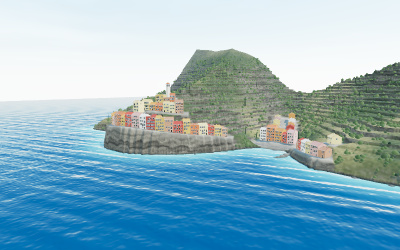
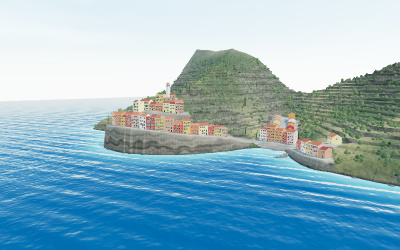
VillageGenerator: Tiled roofs everywhere, brick stacks, walkable paths.
The roof slopes were baked with the wall part code, so they wore the
house's plaster instead of their tiles — every slope now carries the
barrel-tile shading. Ridge caps, verges and chimneys become BRICK:
solid fired clay coursed on its vertical faces, so nothing stretches
with the piece it dresses. Cliff seams follow the bedding instead of
wandering, close-range grit tightens fourfold across terrain, scrub
and stonework, and paved lanes now run every row front, with ramps
joining the tiers and both clusters down to the quay.

diff --git a/examples/jsm/generators/village/HouseGenerator.js b/examples/jsm/generators/village/HouseGenerator.js
@@ -17,7 +17,7 @@ import {
 } from 'three';
 
 import { MeshStandardNodeMaterial } from 'three/webgpu';
-import { attribute, color, float, floor, Fn, fract, fwidth, hash as ihash, mix, positionLocal, positionView, positionWorld, normalView, select, smoothstep, step, uint, uv, varying, vec3 } from 'three/tsl';
+import { attribute, color, float, floor, Fn, fract, fwidth, hash as ihash, mix, normalWorldGeometry, positionLocal, positionView, positionWorld, normalView, select, smoothstep, step, uint, uv, varying, vec3 } from 'three/tsl';
 
 const _scale = /*@__PURE__*/ new Vector3();
 const _position = /*@__PURE__*/ new Vector3();
@@ -26,9 +26,11 @@ const _normalMatrix = /*@__PURE__*/ new Matrix3();
 const _identity = /*@__PURE__*/ new Matrix4();
 
 // material-zone codes baked per vertex into the merged geometry, so one material can
-// branch on partId and shade every zone
-const PartId = { WALL: 0, TRIM: 1, SHUTTER: 2, ROOF: 3, GLASS: 4, DOOR: 5, STONE: 6, RAIL: 7, TERRACE: 8 };
-const { WALL, TRIM, SHUTTER, ROOF, GLASS, DOOR, STONE, RAIL, TERRACE } = PartId;
+// branch on partId and shade every zone. BRICK is the solid fired clay of ridge
+// caps, verge tiles and chimney stacks — tile-toned, but without the slope's
+// barrel pattern, which would stretch with each box's size.
+const PartId = { WALL: 0, TRIM: 1, SHUTTER: 2, ROOF: 3, GLASS: 4, DOOR: 5, STONE: 6, RAIL: 7, TERRACE: 8, BRICK: 9 };
+const { WALL, TRIM, SHUTTER, ROOF, GLASS, DOOR, STONE, RAIL, TERRACE, BRICK } = PartId;
 
 // the flat painted band around every opening; the sills, cornices and fascias key
 // off it so all the facade trim reads as one consistent painted system
@@ -272,14 +274,14 @@ class HouseGenerator {
 		// one accumulator per kind of part: extruded walls in house space, plus
 		// instance matrices for every repeated box / plane module
 
-		const extras = []; // extruded walls and gables, already in house-local space
+		const extras = []; // extruded walls and roof slopes ( { geometry, partId } ), already in house-local space
 		const trim = []; // surrounds, sills, cornices, fascias, chimney caps ( unit boxes )
 		const shutters = [];
 		const rails = [];
 		const stone = []; // podium and door steps
-		const roofBoxes = []; // ridge capping and verge tiles
+		const brick = []; // ridge capping, verge tiles and chimney stacks — solid fired clay
 		const terraceBoxes = []; // flat cotto terrace floors
-		const wallBoxes = []; // chimney stacks and parapets
+		const wallBoxes = []; // parapets
 		const glass = []; // window panes ( unit planes )
 		const doors = [];
 
@@ -306,10 +308,10 @@ class HouseGenerator {
 		// the roof: tiled slopes with overhanging eaves over the gabled span, a
 		// walkable terrace behind a parapet over the rest
 
-		if ( gableSpan ) buildRoof( extras, trim, roofBoxes, w, d, eaves, ridge, p, gableSpan );
+		if ( gableSpan ) buildRoof( extras, trim, brick, w, d, eaves, ridge, p, gableSpan );
 		if ( terraceSpan ) buildTerrace( wallBoxes, trim, rails, terraceBoxes, w, d, eaves, terraceSpan, p.roofStyle === 'combo' );
 
-		// chimneys: short plastered stacks with a cap slab, straddling the ridge
+		// chimneys: short brick stacks with a cap slab, straddling the ridge
 
 		const chimneys = gableSpan && gableSpan[ 1 ] - gableSpan[ 0 ] > 2.4 ? Math.floor( random() * 2.4 ) : 0; // 0..2, most houses have at least one
 
@@ -320,7 +322,7 @@ class HouseGenerator {
 			const top = ridge + 0.4 + random() * 0.5;
 			const size = 0.4 + random() * 0.15;
 
-			wallBoxes.push( boxMatrix( cx, ( top + ridge - 0.8 ) / 2, cz, size, top - ridge + 0.8, size ) );
+			brick.push( boxMatrix( cx, ( top + ridge - 0.8 ) / 2, cz, size, top - ridge + 0.8, size ) );
 			trim.push( boxMatrix( cx, top + 0.04, cz, size + 0.14, 0.08, size + 0.14 ) );
 
 		}
@@ -342,12 +344,12 @@ class HouseGenerator {
 
 		const groups = [];
 
-		for ( const geometry of extras ) groups.push( { geometry: nonIndexed( geometry ), matrices: [ _identity ], partId: WALL, rigid: true } );
+		for ( const extra of extras ) groups.push( { geometry: nonIndexed( extra.geometry ), matrices: [ _identity ], partId: extra.partId, rigid: true } );
 
 		if ( trim.length > 0 ) groups.push( { geometry: _unitBox, matrices: trim, partId: TRIM } );
 		if ( shutters.length > 0 ) groups.push( { geometry: _unitBox, matrices: shutters, partId: SHUTTER } );
 		if ( wallBoxes.length > 0 ) groups.push( { geometry: _unitBox, matrices: wallBoxes, partId: WALL } );
-		if ( roofBoxes.length > 0 ) groups.push( { geometry: _unitBox, matrices: roofBoxes, partId: ROOF } );
+		if ( brick.length > 0 ) groups.push( { geometry: _unitBox, matrices: brick, partId: BRICK } );
 		if ( terraceBoxes.length > 0 ) groups.push( { geometry: _unitBox, matrices: terraceBoxes, partId: TERRACE } );
 		if ( rails.length > 0 ) groups.push( { geometry: _unitBox, matrices: rails, partId: RAIL } );
 		if ( stone.length > 0 ) groups.push( { geometry: _unitBox, matrices: stone, partId: STONE } );
@@ -499,7 +501,7 @@ function buildFacade( extras, modules, w, d, t, eaves, p, random, rotationY, wit
 	const wall = new ExtrudeGeometry( shape, { depth: t, bevelEnabled: false } );
 	wall.translate( 0, 0, d / 2 - t );
 	if ( rotationY !== 0 ) wall.rotateY( rotationY );
-	extras.push( wall );
+	extras.push( { geometry: wall, partId: WALL } );
 
 	// dress every opening; module positions rotate with the facade
 
@@ -560,7 +562,7 @@ function buildGableWall( extras, modules, w, d, t, eaves, ridge, p, random, side
 	const wall = new ExtrudeGeometry( shape, { depth: t, bevelEnabled: false } );
 	wall.translate( 0, 0, w / 2 - t - 0.02 );
 	wall.rotateY( rotationY );
-	extras.push( wall );
+	extras.push( { geometry: wall, partId: WALL } );
 
 	for ( const o of openings ) {
 
@@ -687,7 +689,7 @@ function planeMatrix( x, y, z, sizeX, sizeY ) {
 // eaves, verge tiles, a ridge cap, fascia boards and a cornice line on each
 // facade — and, where the span stops short of the house end, a gable-end wall
 // closing the roof against the terrace
-function buildRoof( extras, trim, roofBoxes, w, d, eaves, ridge, p, span ) {
+function buildRoof( extras, trim, brick, w, d, eaves, ridge, p, span ) {
 
 	const [ x0, x1 ] = span;
 
@@ -717,7 +719,7 @@ function buildRoof( extras, trim, roofBoxes, w, d, eaves, ridge, p, span ) {
 		slope.translate( 0, ( ridgeY + eaveY ) / 2, run / 2 );
 		if ( side < 0 ) slope.rotateY( Math.PI );
 		slope.translate( cx, 0, 0 );
-		extras.push( slope );
+		extras.push( { geometry: slope, partId: ROOF } );
 
 		// verge tiles along the gable edges, so the thin slope plane reads as a
 		// roof with body from street level rather than vanishing edge-on
@@ -725,7 +727,7 @@ function buildRoof( extras, trim, roofBoxes, w, d, eaves, ridge, p, span ) {
 
 		for ( const sx of [ - 1, 1 ] ) {
 
-			roofBoxes.push( new Matrix4()
+			brick.push( new Matrix4()
 				.makeRotationX( lean )
 				.scale( _scale.set( 0.14, 0.12, slopeLength - 0.02 ) )
 				.setPosition( _position.set( cx + sx * ( width / 2 - 0.06 ), ( ridgeY + eaveY ) / 2 + 0.02, side * run / 2 ) ) );
@@ -740,7 +742,7 @@ function buildRoof( extras, trim, roofBoxes, w, d, eaves, ridge, p, span ) {
 
 	}
 
-	roofBoxes.push( boxMatrix( cx, ridgeY + 0.03, 0, width, 0.1, 0.34 ) );
+	brick.push( boxMatrix( cx, ridgeY + 0.03, 0, width, 0.1, 0.34 ) );
 
 	// the interior gable end: a triangle standing on the wall head, closing the
 	// slopes where they stop over the terrace; tucked just inside the gabled span
@@ -758,7 +760,7 @@ function buildRoof( extras, trim, roofBoxes, w, d, eaves, ridge, p, span ) {
 		const wall = new ExtrudeGeometry( shape, { depth: 0.22, bevelEnabled: false } );
 		wall.translate( 0, 0, x + inset );
 		wall.rotateY( Math.PI / 2 );
-		extras.push( wall );
+		extras.push( { geometry: wall, partId: WALL } );
 
 	}
 
@@ -988,6 +990,15 @@ function createHouseMaterial() {
 		.mul( barrelJoint.mul( 0.26 ).oneMinus() )
 		.mul( float( 1 ).add( tone ) );
 
+	// ridge caps, verge tiles and chimney stacks: solid fired clay in the roof's
+	// family — coursed like stacked brick on their vertical faces, plain on top,
+	// so nothing stretches with the size of the piece it dresses
+	const brickCourse = gridLine( positionWorld.y, 0.075, 0.007 ).mul( smoothstep( 0.55, 0.25, normalWorldGeometry.y.abs() ) );
+	const brickColor = roofBase
+		.mul( valueNoise( positionWorld.mul( 3.2 ) ).mul( 0.12 ).add( 1 ) )
+		.mul( brickCourse.mul( 0.24 ).oneMinus() )
+		.mul( float( 1 ).add( tone ) );
+
 	// terrace floors: square cotto tiles laid in house-local metres — always the
 	// fired orange of the kiln, whatever colour the walls below are washed
 	const cottoJoint = gridLine( positionLocal.x, 0.34, 0.014 ).max( gridLine( positionLocal.z, 0.34, 0.014 ) );
@@ -1011,6 +1022,7 @@ function createHouseMaterial() {
 	const block = valueNoise( vec3( positionWorld.x.mul( 1.3 ), positionWorld.y.mul( 2.6 ), positionWorld.z.mul( 1.3 ) ) ).mul( 0.5 ).add( 0.5 );
 	let stoneColor = mix( color( 0x776f5f ), color( 0x958b76 ), block );
 	stoneColor = stoneColor.mul( valueNoise( positionWorld.mul( 0.35 ) ).mul( 0.14 ).add( 0.93 ) );
+	stoneColor = stoneColor.mul( valueNoise( positionWorld.mul( 5.5 ) ).mul( 0.1 ).mul( smoothstep( 0.06, 0.015, texel ) ).add( 1 ) ); // close-range grit, faded before it can sparkle
 	stoneColor = mix( stoneColor, color( 0x4c5348 ), smoothstep( 1.6, 0.5, positionWorld.y ).mul( 0.5 ) ); // algae and tide-wash above the sea
 	stoneColor = mix( stoneColor, color( 0x3d4640 ), smoothstep( 0.7, 0.1, positionWorld.y ).mul( 0.5 ) );
 
@@ -1028,27 +1040,30 @@ function createHouseMaterial() {
 	const isStone = partId.equal( STONE );
 	const isRail = partId.equal( RAIL );
 	const isTerrace = partId.equal( TERRACE );
+	const isBrick = partId.equal( BRICK );
 
 	const material = new MeshStandardNodeMaterial();
 
 	material.colorNode = select( isTrim, trimColor,
 		select( isShutter, shutterShade,
 			select( isRoof, roofColor,
-				select( isTerrace, cottoColor,
-					select( isGlass, glassColor,
-						select( isDoor, doorColor,
-							select( isStone, stoneColor,
-								select( isRail, railColor, plaster ) ) ) ) ) ) ) );
+				select( isBrick, brickColor,
+					select( isTerrace, cottoColor,
+						select( isGlass, glassColor,
+							select( isDoor, doorColor,
+								select( isStone, stoneColor,
+									select( isRail, railColor, plaster ) ) ) ) ) ) ) ) );
 
 	material.roughnessNode = select( isGlass, float( 0.14 ), select( isRail, float( 0.5 ), select( isTerrace, float( 0.85 ), float( 0.95 ) ) ) );
 	material.metalnessNode = select( isRail, float( 0.55 ), float( 0 ) );
 
 	// relief: barrel-tile ridges on the roofs, recessed joints on the terrace
-	// cotto, a soft plaster / stone grain elsewhere; glass and trim stay smooth
+	// cotto and brick coursing, a soft plaster / stone grain elsewhere; glass
+	// and trim stay smooth
 	const grain = valueNoise( positionWorld.mul( 2.2 ) ).mul( select( isStone, float( 0.012 ), float( 0.004 ) ) );
 	const roofRelief = barrel.mul( 0.014 ).mul( barrelFade ).sub( courseJoint.mul( 0.018 ) );
 	const cottoRelief = cottoJoint.mul( - 0.006 );
-	material.normalNode = bumpNormal( select( isRoof, roofRelief, select( isTerrace, cottoRelief, select( isGlass.or( isTrim ), float( 0 ), grain ) ) ) );
+	material.normalNode = bumpNormal( select( isRoof, roofRelief, select( isTerrace, cottoRelief, select( isBrick, brickCourse.mul( - 0.008 ), select( isGlass.or( isTrim ), float( 0 ), grain ) ) ) ) );
 
 	return material;
 

diff --git a/examples/jsm/generators/VillageGenerator.js b/examples/jsm/generators/VillageGenerator.js
@@ -38,7 +38,8 @@ const _unitBox = /*@__PURE__*/ new BoxGeometry( 1, 1, 1 ).toNonIndexed();
  * to a seeded coast curve drives the cliff profile, a ravine drains to the
  * cove, and every house row stamps a flat terrace into the hill before the
  * grid is baked, so the houses' stone podiums read as the retaining walls of
- * their terraces.
+ * their terraces. Paved lanes run the front of every row and ramps join the
+ * tiers and the quay, so the whole village connects into one walkable network.
  *
  * ```js
  * const village = new VillageGenerator( { seed: 1 } );
@@ -492,6 +493,8 @@ function layoutRow( layout, random, path, options ) {
 
 	let s = margin;
 	let previous = null;
+	let sFirst = null;
+	let sLast = null;
 
 	const endRun = () => {
 
@@ -567,11 +570,54 @@ function layoutRow( layout, random, path, options ) {
 		} );
 
 		previous = house;
+		if ( sFirst === null ) sFirst = s;
+		sLast = s + width;
 		s += width;
 
 	}
 
 	endRun();
+
+	if ( sFirst === null ) return null;
+
+	// the lane: a paved walk running the whole row front at the smooth grade
+	// the house bases were quantized from, so every doorstep is reachable and
+	// the terrace steps between neighbours ramp instead of jumping
+
+	const lanePoint = ( ls ) => {
+
+		const at = path.sample( ls );
+		return { x: at.x + at.tz * facing * 2.9, z: at.z - at.tx * facing * 2.9, h: elevation( ls ) + 0.05 };
+
+	};
+
+	for ( let ls = Math.max( 0, sFirst - 2 ); ls <= Math.min( path.length, sLast + 2 ); ls += 2.5 ) {
+
+		const point = lanePoint( ls );
+		layout.stamps.push( { cx: point.x, cz: point.z, r: 2.7, feather: 4.5, h: point.h } );
+
+	}
+
+	// the lane's two ends, for the ramps that join rows into a walkable network
+	return { first: lanePoint( sFirst + 1 ), last: lanePoint( sLast - 1 ) };
+
+}
+
+// a paved ramp between two lane anchors: disc stamps marching the line with
+// linearly blended height, carving a walkable shelf into the hillside
+function layoutRamp( layout, a, b ) {
+
+	if ( ! a || ! b ) return;
+
+	const length = Math.hypot( b.x - a.x, b.z - a.z );
+	const count = Math.max( 2, Math.ceil( length / 2.2 ) );
+
+	for ( let i = 0; i <= count; i ++ ) {
+
+		const t = i / count;
+		layout.stamps.push( { cx: a.x + ( b.x - a.x ) * t, cz: a.z + ( b.z - a.z ) * t, r: 2.5, feather: 4.5, h: a.h + ( b.h - a.h ) * t } );
+
+	}
 
 }
 
@@ -611,12 +657,13 @@ function buildLayout( p, random, coast ) {
 	};
 
 	const westRows = 4 + Math.floor( random() * 2 );
+	const westEnds = []; // each row's cove-side lane end, for the tier ramps
 
 	for ( let k = 0; k < westRows; k ++ ) {
 
 		const path = offsetCoastPath( coast, - 122 + k * 12 + random() * 6, coveX - 24 - k * 7, 7.5 + k * 11 );
 
-		layoutRow( layout, random, path, {
+		const run = layoutRow( layout, random, path, {
 			elevation: grade( path ),
 			facing: - 1,
 			depth: 8.5 + random(),
@@ -624,23 +671,28 @@ function buildLayout( p, random, coast ) {
 			floorsMax: 4
 		} );
 
+		if ( run ) westEnds.push( run.last );
+
 	}
 
 	// the far side of the cove: a smaller, lower cluster
 
 	const eastRows = 2 + Math.floor( random() * 2 );
+	const eastEnds = [];
 
 	for ( let k = 0; k < eastRows; k ++ ) {
 
 		const path = offsetCoastPath( coast, coveX + 22 + k * 5, coveX + 64 - k * 4, 6.5 + k * 10.5 );
 
-		layoutRow( layout, random, path, {
+		const run = layoutRow( layout, random, path, {
 			elevation: grade( path ),
 			facing: - 1,
 			depth: 8 + random(),
 			floorsMin: 2,
 			floorsMax: 3
 		} );
+
+		if ( run ) eastEnds.push( run.first );
 
 	}
 
@@ -663,6 +715,16 @@ function buildLayout( p, random, coast ) {
 	} );
 
 	layout.harbour = { x: coveX, z: harbourZ };
+
+	// join everything into one walkable network: ramps climb between the tiers
+	// of each cluster, and both clusters step down to the quay, so dock, west
+	// hill and east hill all connect without a scramble over the scrub
+
+	for ( let k = 1; k < westEnds.length; k ++ ) layoutRamp( layout, westEnds[ k - 1 ], westEnds[ k ] );
+	for ( let k = 1; k < eastEnds.length; k ++ ) layoutRamp( layout, eastEnds[ k - 1 ], eastEnds[ k ] );
+
+	layoutRamp( layout, { x: coveX - 19, z: harbourZ + 6, h: 2.2 }, westEnds[ 0 ] );
+	layoutRamp( layout, { x: coveX + 19, z: harbourZ + 6, h: 2.2 }, eastEnds[ 0 ] );
 
 	// the quay apron in front of the harbour row: its stamp holds the ground
 	// under the paving still, its claim keeps later rows off it
@@ -741,6 +803,9 @@ function buildLayout( p, random, coast ) {
 		} );
 
 	}
+
+	// and the street's foot runs out onto the quay
+	layoutRamp( layout, { x: streetFrom.x, z: streetFrom.y, h: streetElevation( axis.length ) }, { x: coveX, z: harbourZ + 6, h: 2.2 } );
 
 	return layout;
 
@@ -1202,7 +1267,9 @@ function createTerrainMaterial() {
 
 		If( near.greaterThan( 0.01 ), () => {
 
-			g.assign( valueNoise( positionWorld.mul( 2.7 ) ).mul( near ) );
+			g.assign( valueNoise( positionWorld.mul( 3.1 ) )
+				.add( valueNoise( positionWorld.mul( 11 ) ).mul( 0.6 ) )
+				.mul( near ) );
 
 		} );
 
@@ -1211,13 +1278,16 @@ function createTerrainMaterial() {
 	} )();
 
 	// stratified cliff rock: warm grey-brown bedding planes at two frequencies,
-	// veined by the fine noise's ridge lines and chipped by the grit
+	// chipped by the grit. the seams are the ridges of a noise field stretched
+	// hard along the bedding, so they run as horizontal fractures rather than
+	// wandering blobs.
 	const bandA = height.mul( 0.55 ).add( grain.mul( 2.2 ) ).add( macro.mul( 3 ) ).sin();
 	const bandB = height.mul( 1.6 ).add( grain.mul( 3 ) ).add( fine ).sin();
 	const strata = bandA.mul( 0.6 ).add( bandB.mul( 0.4 ) ).mul( 0.5 ).add( 0.5 );
-	const veins = smoothstep( 0.78, 0.95, fine.abs().oneMinus() ).mul( 0.3 ); // dark seams where the noise ridges
+	const seamField = valueNoise( vec3( positionWorld.x.mul( 0.5 ), positionWorld.y.mul( 3.4 ), positionWorld.z.mul( 0.5 ) ) );
+	const veins = smoothstep( 0.82, 0.96, seamField.abs().oneMinus() ).mul( 0.28 );
 	let rock = mix( color( 0x4a4336 ), color( 0x8a7d67 ), strata );
-	rock = rock.mul( veins.oneMinus() ).mul( grit.mul( 0.2 ).add( 1 ) );
+	rock = rock.mul( veins.oneMinus() ).mul( grit.mul( 0.22 ).add( 1 ) );
 
 	// the vegetated hill: dry maquis drifting through summer-scorched grass,
 	// tufted at hand scale so the green never reads as a solid fill
@@ -1407,8 +1477,8 @@ function createScrubMaterial() {
 
 		If( clumpFade.greaterThan( 0.01 ), () => {
 
-			c.assign( valueNoise( positionWorld.mul( 1.4 ) )
-				.add( valueNoise( positionWorld.mul( 3.8 ) ).mul( 0.5 ) )
+			c.assign( valueNoise( positionWorld.mul( 4.5 ) )
+				.add( valueNoise( positionWorld.mul( 13 ) ).mul( 0.5 ) )
 				.mul( clumpFade ) );
 
 		} );
